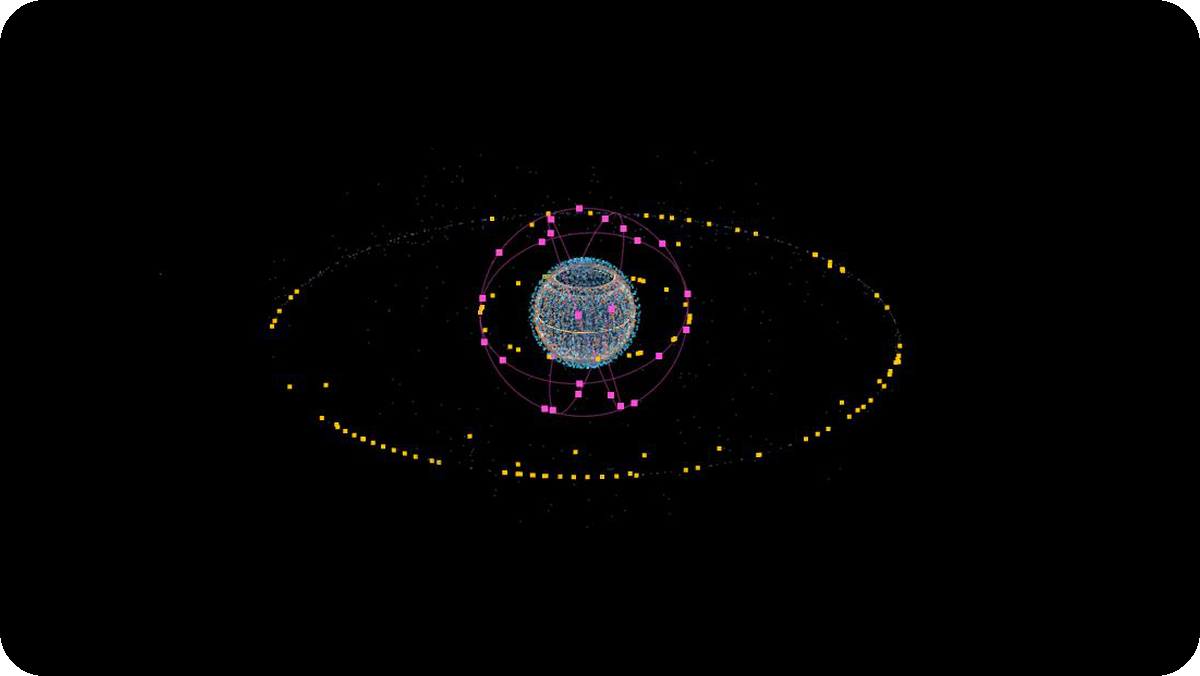
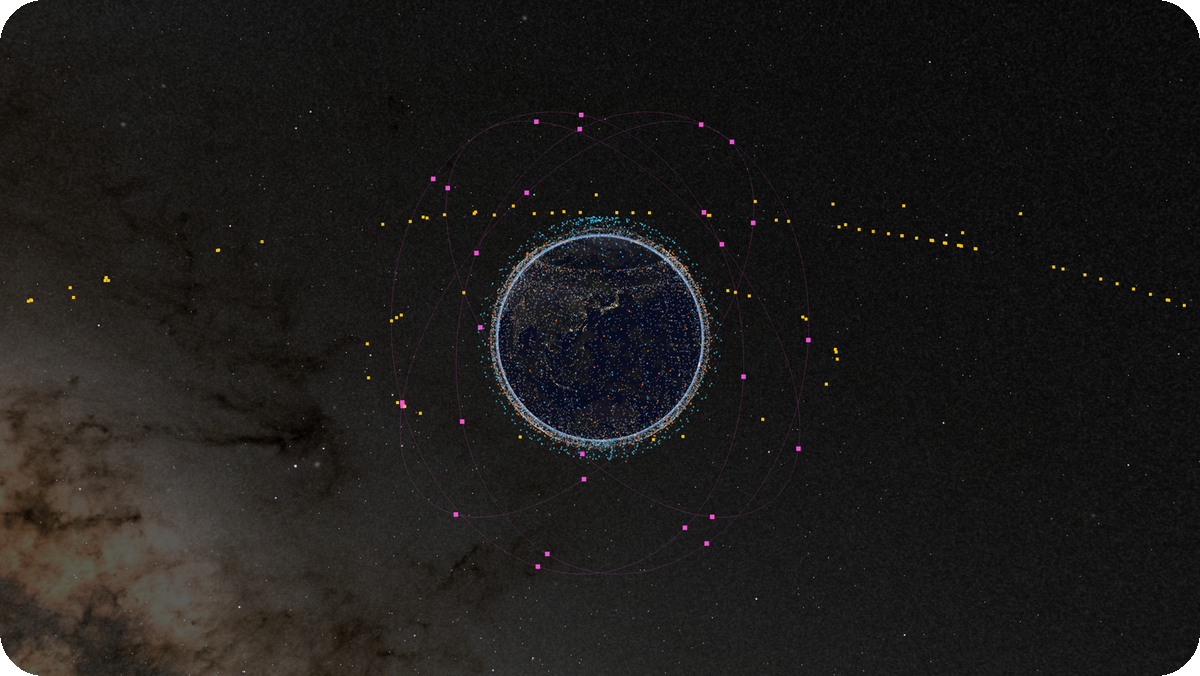
Fill the cards, note the Janus refutation, new orbit-lab shot
- Card text sizes itself to fill each card; hero matches the side column
- Cosmology card notes the Janus refutation (Δχ² ≈ 317 against ΛCDM)
- Dark w0-wa panel (recoloured until the chains are replotted)
- Fresh full-frame orbit-lab screenshot

diff --git a/make_profile.py b/make_profile.py
@@ -16,57 +16,71 @@ ax.axis("off"); fig.patch.set_alpha(0); fig.tight_layout(pad=0)
 fig.savefig("assets/banner.svg", transparent=True); plt.close()
 
 # --- cards ---------------------------------------------------------------
-def card(name, w, h, bg, fg, kicker, title, body, title_size=48, body_size=19):
-    lines = textwrap.wrap(body, width=int(w / (body_size * 0.62)))
+from xml.sax.saxutils import escape
+def card(name, w, h, bg, fg, kicker, title, body, title_size=48, body_size=None, max_body=24):
+    """A text card. The body is set as large as fits (largest size whose wrapped lines fill the
+    space under the title), so every card uses its whole area."""
+    pad, top = 36, 48
+    y0 = top + title_size + 18 + 18                       # first body baseline offset (minus line)
+    def wrap(sz): return textwrap.wrap(body, width=int((w - 2*pad) / (sz * 0.5)))
+    sizes = [body_size] if body_size else [x / 2 for x in range(max_body * 2, 27, -1)]
+    for sz in sizes:
+        lines = wrap(sz)
+        if y0 + sz * 1.0 + (len(lines) - 1) * sz * 1.45 + sz * 0.35 <= h - pad: break
     svg = [f'<svg xmlns="http://www.w3.org/2000/svg" width="{w}" height="{h}" '
            f'viewBox="0 0 {w} {h}" font-family="-apple-system,Segoe UI,Helvetica,Arial,sans-serif">',
            f'<rect width="{w}" height="{h}" rx="22" fill="{bg}"/>',
-           f'<text x="36" y="48" font-size="13" letter-spacing="3" font-weight="700" fill="{fg}" opacity="0.75">{kicker}</text>',
-           f'<text x="36" y="{48+title_size+18}" font-size="{title_size}" font-weight="800" fill="{fg}">{title}</text>']
-    y = 48 + title_size + 18 + 42
+           f'<text x="{pad}" y="{top}" font-size="13" letter-spacing="3" font-weight="700" fill="{fg}" opacity="0.75">{escape(kicker)}</text>',
+           f'<text x="{pad}" y="{top+title_size+18}" font-size="{title_size}" font-weight="800" fill="{fg}">{escape(title)}</text>']
+    y = y0 + sz
     for ln in lines:
-        svg.append(f'<text x="36" y="{y}" font-size="{body_size}" font-weight="500" fill="{fg}">{ln}</text>')
-        y += body_size * 1.5
+        svg.append(f'<text x="{pad}" y="{y:.1f}" font-size="{sz}" font-weight="500" fill="{fg}">{escape(ln)}</text>')
+        y += sz * 1.45
     svg.append('</svg>')
-    open(f"assets/{name}.svg", "w").write("\n".join(svg))
+    open(f"assets/{name}.svg", "w", encoding="utf-8").write("\n".join(svg))
 
 PURPLE, LIME, DARK, CORAL, INK, PALE = "#8b7cf6", "#d4ff3f", "#1a1d24", "#f28b6a", "#0f1117", "#f5f5f7"
 
-card("hero", 820, 280, PURPLE, INK, "COMPUTATIONAL PHYSICIST · PLASMA · COSMOLOGY",
+card("hero", 820, 416, PURPLE, INK, "COMPUTATIONAL PHYSICIST · PLASMA · COSMOLOGY",
      "COSMOTHEORETICIAN",
      "I build and stress-test numerical simulations: particle-in-cell parameter studies on HPC "
-     "clusters, and my own solvers written to understand the physics from the ground up.")
+     "clusters, and my own solvers written to understand the physics from the ground up.", title_size=62, max_body=30)
 card("focus", 380, 200, LIME, INK, "CURRENT FOCUS", "Verification first.",
-     "Conservation laws, convergence and benchmarks before trusting a number.", title_size=30, body_size=16)
+     "Conservation laws, convergence and benchmarks before trusting a number.", title_size=30, max_body=20)
 card("domains", 380, 210, DARK, PALE, "CORE DOMAINS", "Plasma · Cosmology · Orbits",
-     "Laser-plasma instabilities, expansion histories, mission trajectories.", title_size=28, body_size=16)
+     "Laser-plasma instabilities, expansion histories, mission trajectories.", title_size=22, max_body=20)
 
 # Selected work: a description card (left) and a figure panel (right) per row, all 600x338
 card("thesis", 600, 338, CORAL, INK, "01 · BACHELOR THESIS", "Parametric plasma waves",
      "2D particle-in-cell campaign on HPC: a laser crossing an underdense gas jet near the "
      "quarter-critical density. The stimulated Raman back-scatter wave saturates at 0.55 TV/m "
      "through electron trapping, up to 0.75 TV/m with short pulses. Every number checked against "
-     "16 particles per cell and independent random seeds.", title_size=40, body_size=17)
+     "16 particles per cell and independent random seeds.", title_size=40)
 card("plasma", 600, 338, PURPLE, INK, "02", "Plasma physics",
      "icfsim, a verification-first radiation-hydrodynamics code for inertial confinement fusion, "
      "growing toward an integrated direct-drive implosion validated against OMEGA data. Also a "
      "relativistic two-fluid + Maxwell solver for SRS, SBS and TPD, and coupled-mode and Vlasov "
-     "models for growth rates, Landau damping and particle trapping.", title_size=40, body_size=17)
+     "models for growth rates, Landau damping and particle trapping.", title_size=40)
 card("cosmology", 600, 338, DARK, PALE, "03", "Cosmology",
      "skua, a test rig for cosmological expansion histories: validated against DESI DR2, Planck "
      "and three supernova catalogues, and used to reproduce and calibrate the evidence for "
-     "evolving dark energy. Plus background fits of alternative cosmologies to BAO, supernovae "
-     "and cosmic chronometers with MCMC posteriors.", title_size=40, body_size=17)
+     "evolving dark energy. (Its predecessor refuted the Janus twin-matter cosmology: DESI DR2 "
+     "BAO and two supernova samples reject it at Δχ² ≈ 317 against ΛCDM.)", title_size=40)
 card("orbits", 600, 338, LIME, INK, "04", "Orbital mechanics",
      "orbit-lab, a real-time 3D orbit visualizer in the browser: 15,000+ satellites propagated "
      "with SGP4, and lunar missions including a reconstruction of ispace's RESILIENCE validated "
-     "against radio-telescope Doppler data.", title_size=40, body_size=17)
+     "against radio-telescope Doppler data.", title_size=40)
 
 # figure panels: the source figure fitted into a rounded 1200x676 panel (2x of 600x338)
 from PIL import Image, ImageDraw
-def panel(name, src, bg):
+def panel(name, src, bg, fill=False):
     W, H, pad = 1200, 676, 28
     im = Image.open(f"assets/src/{src}").convert("RGB")
+    if fill:                                   # a 16:9 shot: cover the whole panel, rounded corners
+        im = im.resize((W, H), Image.LANCZOS)
+        m = Image.new("L", (W, H), 0); ImageDraw.Draw(m).rounded_rectangle((0, 0, W-1, H-1), 44, fill=255)
+        out = Image.new("RGBA", (W, H), (0, 0, 0, 0)); out.paste(im, (0, 0), m)
+        out.save(f"assets/{name}.png", optimize=True); return
     k = min((W - 2*pad) / im.width, (H - 2*pad) / im.height)
     im = im.resize((round(im.width*k), round(im.height*k)), Image.LANCZOS)
     out = Image.new("RGBA", (W, H), (0, 0, 0, 0))
@@ -74,6 +88,6 @@ def panel(name, src, bg):
     out.paste(im, ((W - im.width)//2, (H - im.height)//2))
     out.save(f"assets/{name}.png", optimize=True)
 panel("plasma-fig", "icfsim_resolution.png", "#1a1d24")
-panel("cosmology-fig", "skua_w0wa.png", "#ffffff")
-panel("orbits-fig", "orbit_lab.png", "#000000")
+panel("cosmology-fig", "skua_w0wa_dark.png", "#1a1d24")
+panel("orbits-fig", "orbit_lab.png", "#000000", fill=True)
 print("done")
